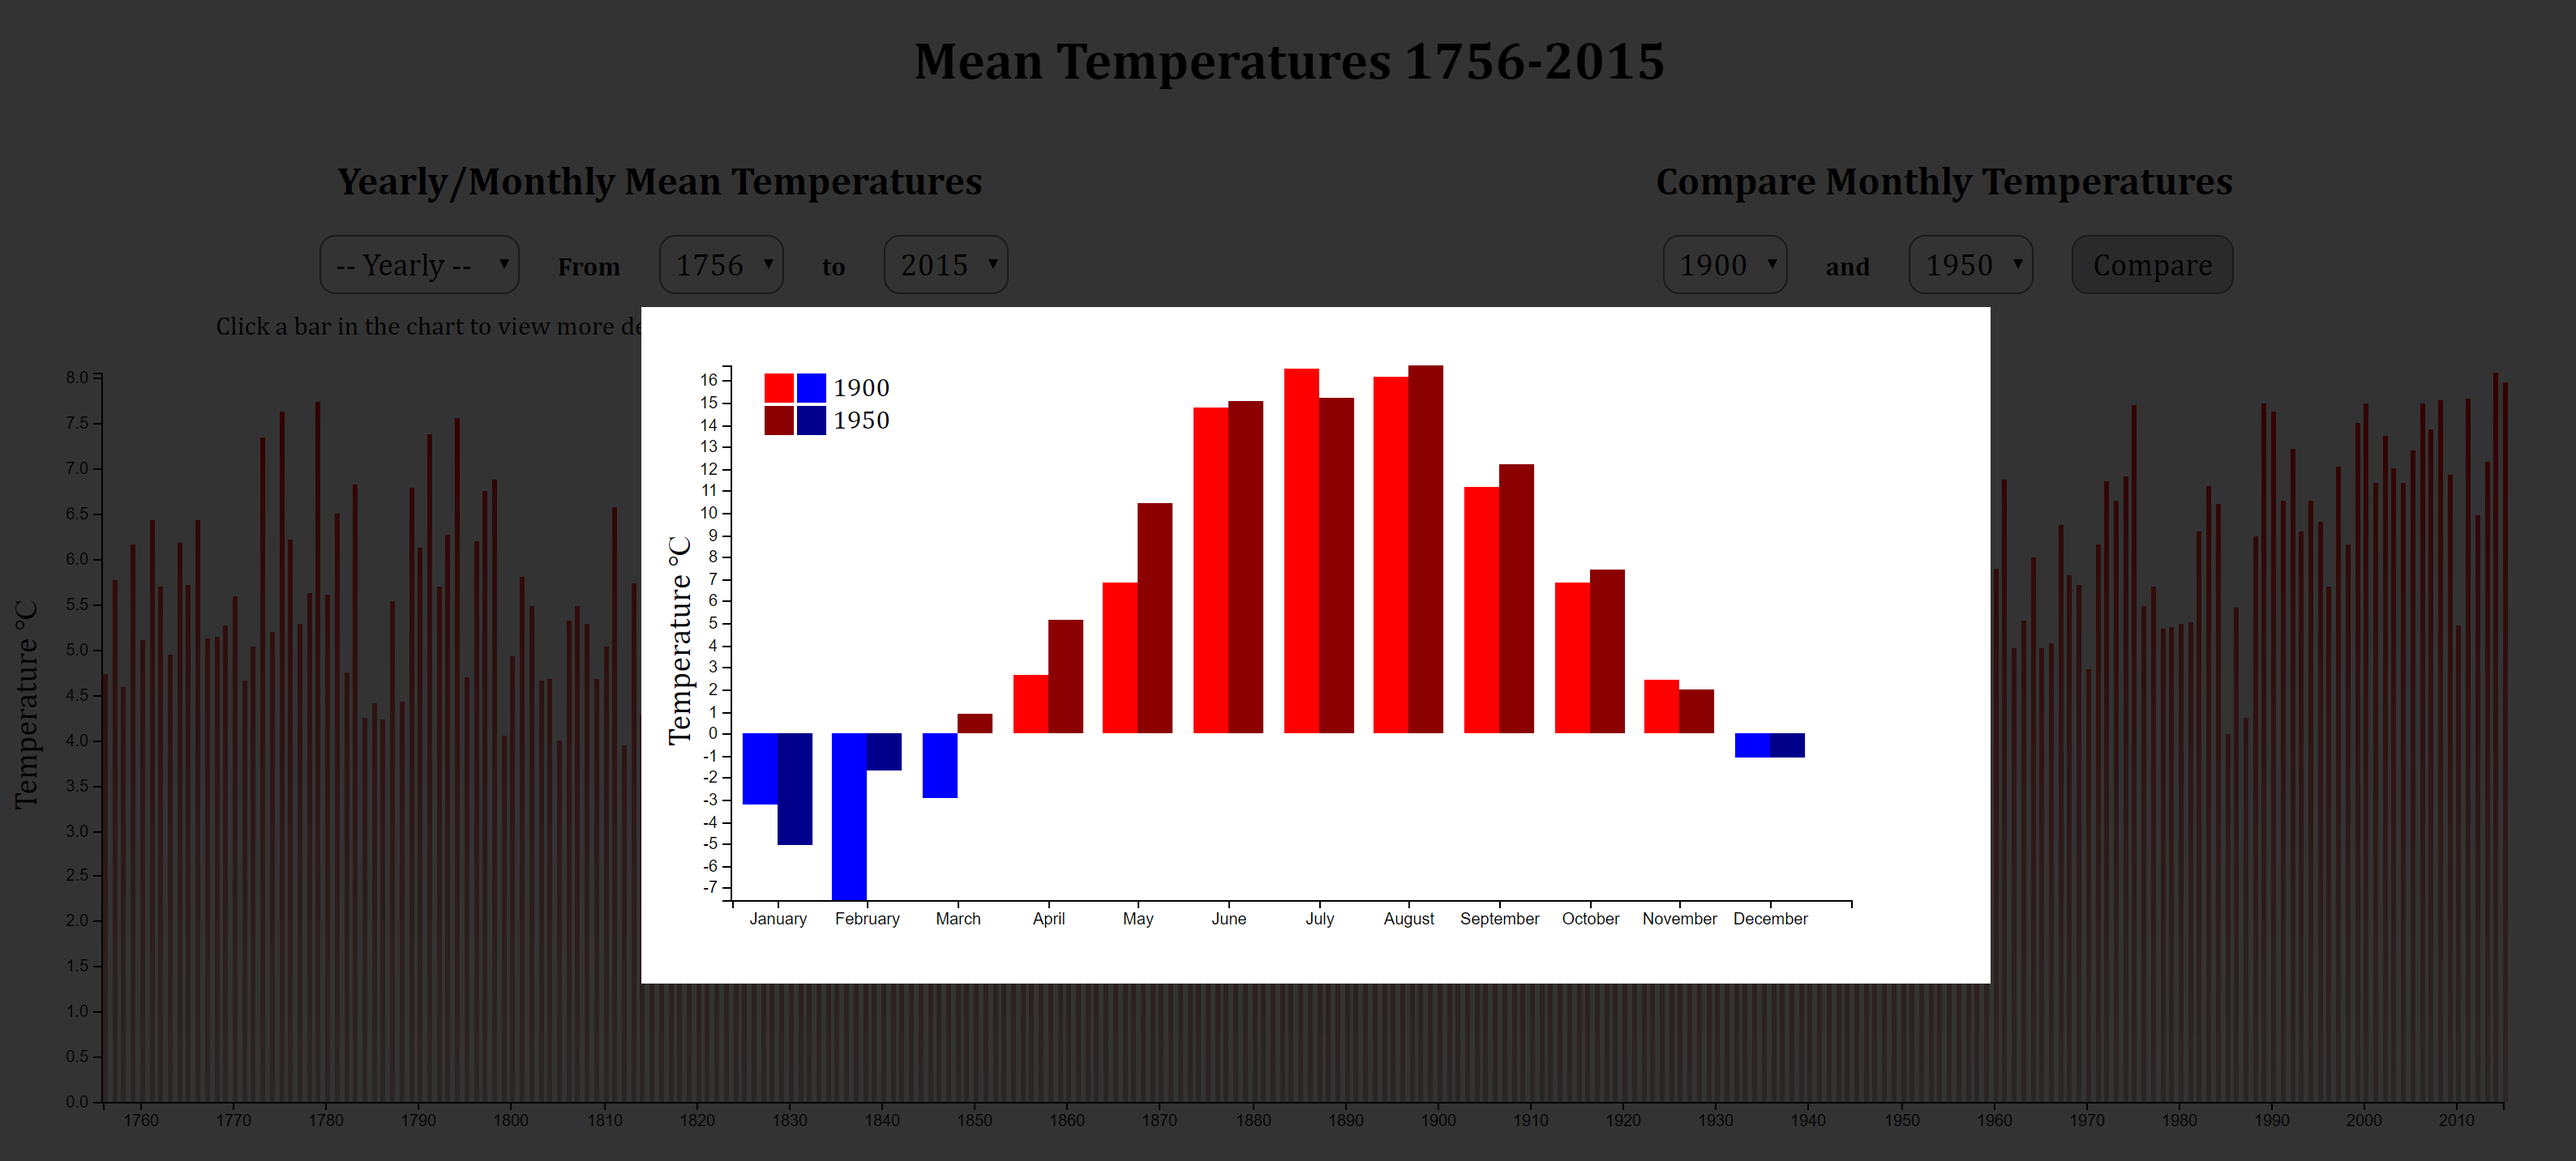
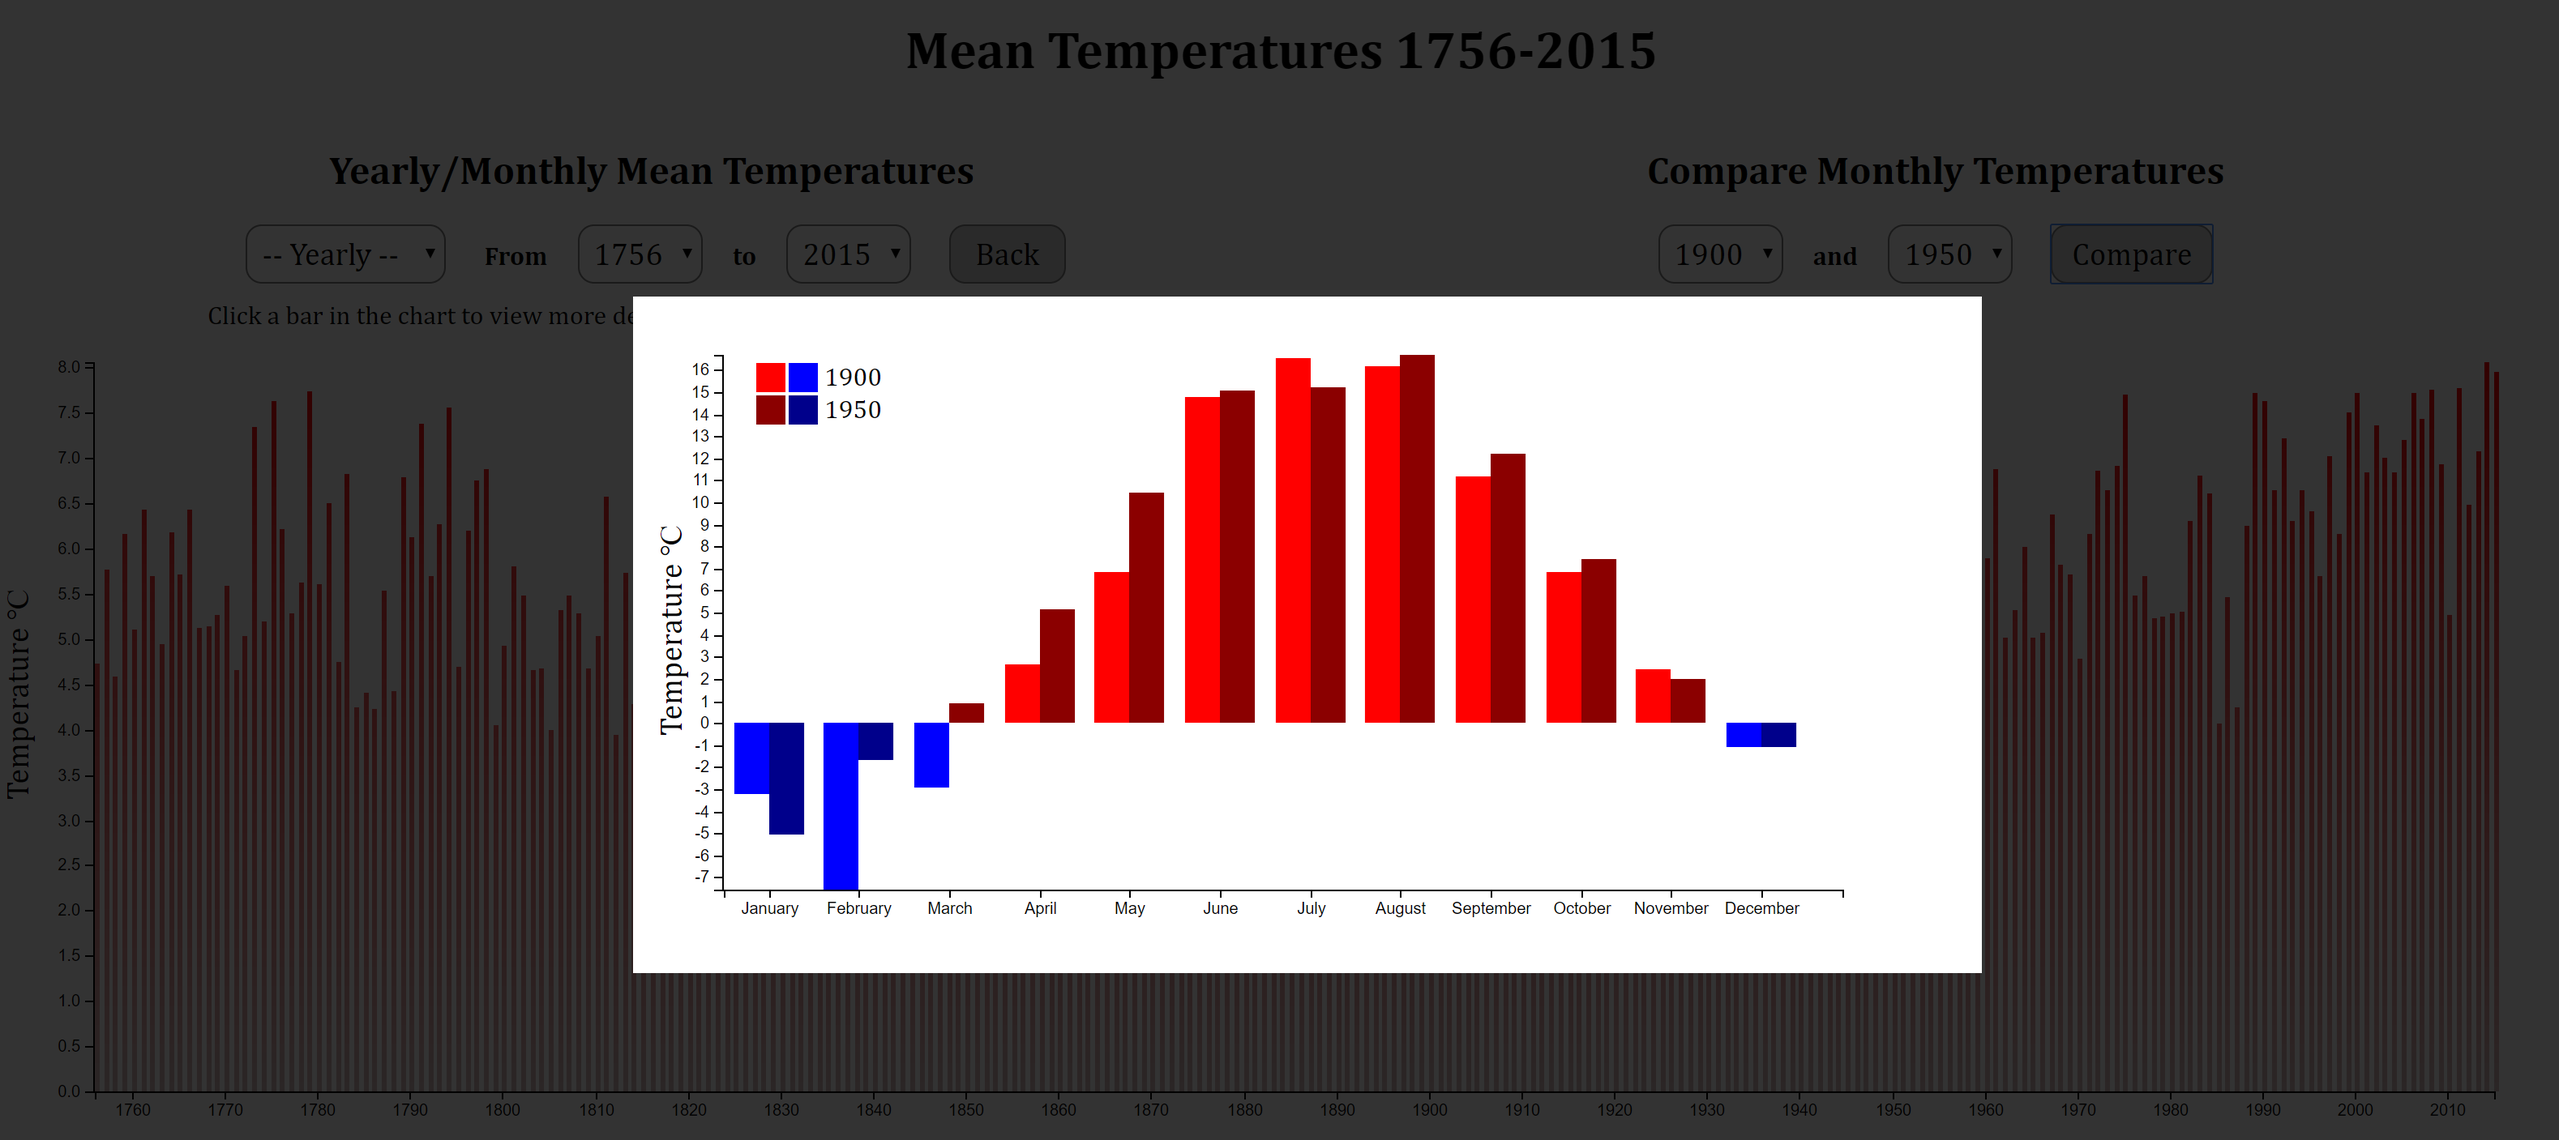
back button works now!

diff --git a/src/final.html b/src/final.html
@@ -33,19 +33,19 @@
 			</select>
 				<!-- Select years to filter from and to -->
 				<strong class="marginLeft20">From</strong>
-				<select class="marginLeft20" id="timeSpanYear1" onchange="updateData()"></select>
-				<strong class="marginLeft20">to</strong>
-				<select class="marginLeft20" id="timeSpanYear2" onchange="updateData()"></select>
-				<button class="button marginLeft20" onclick="back()">Back</button>
+				<select class="marginLeft15" id="timeSpanYear1" onchange="updateData()"></select>
+				<strong class="marginLeft15">to</strong>
+				<select class="marginLeft15" id="timeSpanYear2" onchange="updateData()"></select>
+				<button class="button marginLeft20 buttonPadding" onclick="back()">Back</button>
 				
 				<div id="clickBarText" class="marginLeft20 marginTop10">Click a bar in the chart to view more detailed information about the selected year.</div>
 		</div>
 
 		<div id="narrow">
 			<h2 class="marginLeft15">Compare Monthly Temperatures</h2>
-			<select class="marginLeft20" id="compareYear1"></select>
-			<strong class="marginLeft20">and</strong>
-			<select class="marginLeft20" id="compareYear2"></select>
+			<select class="marginLeft15" id="compareYear1"></select>
+			<strong class="marginLeft15">and</strong>
+			<select class="marginLeft15" id="compareYear2"></select>
 
 			<button class="button marginLeft20" onclick="updateCompare()">Compare</button>
 		</div>

diff --git a/src/js/final.js b/src/js/final.js
@@ -583,11 +583,11 @@ function sortByChosenYear(year) {
 
 // Update data section on click of button in HTML
 function updateData() {
-    console.log("Running updateData!");
+    // Store filter settings in history list
     varHistory.push({"month" : document.getElementById('monthSelection').selectedIndex, 
-                    "from" : document.getElementById('timeSpanYear1').value,
-                    "to": document.getElementById('timeSpanYear1').value
-                });
+        "from" : document.getElementById('timeSpanYear1').value,
+        "to": document.getElementById('timeSpanYear2').value
+    });
 
     var chosenMonth = document.getElementById('monthSelection').selectedIndex;
     if (chosenMonth == 0) {
@@ -1112,7 +1112,7 @@ function hidePopup() {
 
 
 
-// Update data section on click of button in HTML
+// Update the bar chart according to the previous filtration
 function back() {
     if (varHistory.length > 1) {
         varHistory.pop();

diff --git a/src/css/style.css b/src/css/style.css
@@ -135,3 +135,8 @@ body select {
   font-family: Cambria;
   font-size: 1.2em;
 }
+
+.buttonPadding {
+  padding: 6px 15px;
+}
+
